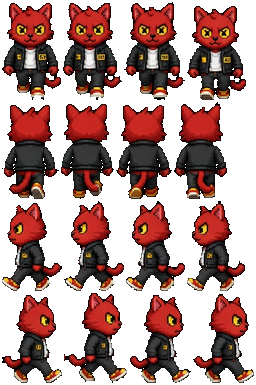
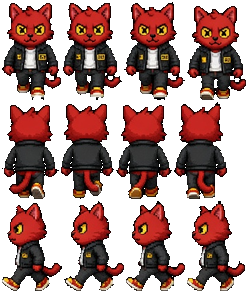
Caminar más fluido de Mist y mascota más pequeña
- Los lados usan la misma caminata (izquierda) reflejada para la
  derecha: la fila 'derecha' mezclaba dibujos distintos y saltaba.
- Cada cuadro se ancla en el centro de la cabeza: el gato ya no se
  mueve de lado a lado al cambiar de cuadro.
- Pasos un poco más rápidos, rebote suave en cada pisada y leve
  balanceo al ir de lado.
- Al caminar en diagonal la vista no cambia a cada rato entre lado y
  frente/espalda.
- Mascota más pequeña (40 en vez de 50).
- Versión 1.4.2.

Claude-Session: https://claude.ai/code/session_012giJR8jrsmCsJ3cu1HsXxX

diff --git a/js/game.js b/js/game.js
@@ -2636,7 +2636,13 @@ function dibujarJugador(t){
   if (pose === 'oculto') return;
   // hacia dónde mira: al caminar, según el movimiento; al atacar, según donde apunta
   const dirDe = (vx, vy) => Math.abs(vy) > Math.abs(vx) * 1.15 ? (vy < 0 ? 'ar' : 'ab') : 'lado';
-  if (mov) { P.dirV = dirDe(P.mx, P.my); }
+  // en diagonal no cambia de vista a cada rato: hace falta un giro claro para pasar de lado a frente/espalda o al revés
+  if (mov){
+    const ax = Math.abs(P.mx), ay = Math.abs(P.my);
+    if (P.dirV === 'lado') { if (ay > ax * 1.5) P.dirV = P.my < 0 ? 'ar' : 'ab'; }
+    else if (ax > ay * .9) P.dirV = 'lado';
+    else P.dirV = P.my < 0 ? 'ar' : 'ab';
+  }
   let dir = P.dirV || 'ab', derecha = !P.mira;
   let f = 0, kx = 1, ky = 1, alza = 0, rot = 0;
   if (pose){
@@ -2646,8 +2652,12 @@ function dibujarJugador(t){
     else { alza = -12 * s; kx = 1 - .06 * s; ky = 1 + .1 * s; }
   } else if (mov){
     // los pasos avanzan según la distancia recorrida
-    f = Math.floor(P.paso / 16);
-    alza = -Math.abs(Math.sin(P.paso / 16 * Math.PI)) * 2.2;
+    // un cuadro cada 14 px; rebote suave en cada pisada y leve balanceo al ir de lado
+    const k = P.paso / 14;
+    f = Math.floor(k);
+    alza = -(1 - Math.cos(k * Math.PI * 2)) * 1.1;
+    if (dir === 'lado') rot = Math.sin(k * Math.PI) * .035;
+    ky = 1 + Math.cos(k * Math.PI * 2) * .015;
   } else {
     const r = Math.sin(t / 420); ky = 1 + .025 * r; kx = 1 - .012 * r;
   }
@@ -2934,15 +2944,15 @@ const TEXTURA_RANGO = [
 const GATOS_DIR = [{"muerto":[[0,0,128,65,63.5,65]],"q_ab":[[139,196,63,94,26.2,94],[204,196,62,94,26.2,94]],"ab":[[268,196,62,94,34.1,94],[332,196,64,94,36.1,94],[398,196,62,95,35.4,95],[462,196,63,94,35.1,94]],"q_ar":[[527,196,59,95,26.2,95],[588,196,59,95,26.2,95]],"ar":[[649,196,59,95,26.6,95],[710,196,59,95,26.8,95],[771,196,59,94,31.9,94],[832,196,59,95,31.9,95]],"q_lado":[[893,196,68,94,25.8,94],[963,196,68,94,25.9,94]],"lado":[[1033,196,69,95,25.7,95],[1104,196,69,95,26.3,95],[1175,196,69,95,25.9,95],[1246,196,70,95,26.7,95]],"q_de":[[1318,196,68,95,40.7,95],[0,294,62,95,19.8,95]],"de":[[64,294,70,95,42.4,95],[136,294,70,96,42.6,96],[208,294,69,95,42.1,95],[279,294,70,96,42.4,96]]},{"ab":[[130,0,76,96,32.0,96],[208,0,77,96,31.5,96],[287,0,77,96,31.5,96],[366,0,79,96,31.5,96]],"ar":[[447,0,86,96,48.5,96],[535,0,81,96,37.5,96],[618,0,75,96,35.0,96],[695,0,74,96,31.5,96],[771,0,73,96,32.0,96]],"lado":[[846,0,82,96,34.0,96],[930,0,82,96,32.0,96],[1014,0,84,96,33.0,96],[1100,0,85,96,36.5,96],[1187,0,80,96,35.5,96],[1269,0,80,96,35.0,96]],"de":[[0,98,86,96,49.5,96],[88,98,76,96,42.5,96],[166,98,87,96,50.0,96],[255,98,75,96,44.0,96],[332,98,77,96,43.5,96],[411,98,72,96,42.5,96]],"muerto":[[485,98,122,56,60.5,56]]},{"ab":[[609,98,95,96,36.5,96]],"ar":[[706,98,94,96,35.5,96]],"lado":[[802,98,92,96,32.5,96],[896,98,98,96,33.0,96],[996,98,93,96,34.0,96]]},{"ab":[[1091,98,73,96,30.5,96],[1166,98,72,96,28.0,96]],"ar":[[1240,98,70,96,28.0,96],[1312,98,66,96,36.5,96],[0,196,67,96,36.0,96]],"lado":[[69,196,68,96,25.0,96]]}];
 const GATOS = null;
 const GATOS_IMG = new Image();
-// Mist (Gato Carmesí) tiene su propia hoja: frente, espalda, izquierda y derecha, 4 cuadros cada una
+// Mist (Gato Carmesí) tiene su propia hoja: frente, espalda y lado (mirando a la izquierda; se refleja para la derecha), 4 cuadros cada una
 const MIST_IMG = new Image();
-GATOS_DIR[0] = Object.assign({"ab": [[2, 3, 59, 97, 29.5, 97], [63, 3, 59, 97, 29.5, 97], [124, 2, 61, 98, 30.5, 98], [187, 6, 59, 94, 29.5, 94]], "ar": [[2, 105, 57, 94, 28.5, 94], [61, 104, 53, 95, 26.5, 95], [116, 105, 56, 94, 28.0, 94], [174, 102, 53, 97, 26.5, 97]], "lado": [[2, 203, 60, 88, 25.2, 88], [64, 201, 60, 90, 25.2, 90], [126, 201, 59, 90, 24.8, 90], [187, 201, 58, 90, 24.4, 90]], "de": [[2, 295, 60, 88, 34.8, 88], [64, 293, 63, 90, 36.5, 90], [129, 295, 62, 88, 36.0, 88], [193, 294, 61, 89, 35.4, 89]]}, { img:MIST_IMG });
+GATOS_DIR[0] = Object.assign({"ab": [[2, 3, 59, 97, 28.3, 97], [63, 3, 59, 97, 26.6, 97], [124, 2, 61, 98, 28.6, 98], [187, 6, 59, 94, 28.0, 94]], "ar": [[2, 105, 57, 94, 27.6, 94], [61, 104, 53, 95, 25.2, 95], [116, 105, 56, 94, 27.2, 94], [174, 102, 53, 97, 26.2, 97]], "lado": [[2, 203, 60, 88, 25.0, 88], [64, 201, 60, 90, 26.5, 90], [126, 201, 59, 90, 25.1, 90], [187, 201, 58, 90, 24.3, 90]]}, { img:MIST_IMG });
 const imgGato = tipo => (GATOS_DIR[tipo] && GATOS_DIR[tipo].img) || GATOS_IMG;
 let gatosListo = false, gatosPend = 2;
 const gatoCargado = () => { if (--gatosPend === 0){ gatosListo = true; document.dispatchEvent(new Event('gatoslistos')); } };
 GATOS_IMG.onload = gatoCargado; MIST_IMG.onload = gatoCargado;
 GATOS_IMG.src = 'img/gatos.png';
-MIST_IMG.src = 'img/mist.png?v=1.4.1';
+MIST_IMG.src = 'img/mist.png?v=1.4.2';
 const TIPOS_GATO = ['Gato Carmesí', 'Gato Ejecutivo', 'Gato Calicó', 'Gato Misterioso'];
 // Mascotas: 4 ratas con 4 direcciones (ar arriba, ab abajo, iz izquierda, de derecha) de 4 cuadros
 // cada cuadro: [x, y, ancho, alto, anclaX, anclaY]
@@ -2952,7 +2962,7 @@ let ratasListo = false;
 RATAS_IMG.onload = () => ratasListo = true;
 RATAS_IMG.src = 'img/ratas.png';
 const TIPOS_RATA = ['Rata Mensajera', 'Rata Quesera', 'Rata Ejecutiva', 'Rata Misteriosa'];
-const ALTO_GATO = 50; // altura de la mascota en el mundo
+const ALTO_GATO = 40; // altura de la mascota en el mundo
 let M = null, gatoElegido = 0;
 
 function toggleMascota(){

diff --git a/index.html b/index.html
@@ -14,7 +14,7 @@
 <title>Riftborn: El Ascenso del Eclipse</title>
 <link rel="preconnect" href="https://fonts.googleapis.com">
 <link href="https://fonts.googleapis.com/css2?family=Marcellus&family=Rajdhani:wght@500;600;700&display=swap" rel="stylesheet">
-<link rel="stylesheet" href="css/style.css?v=1.4.1">
+<link rel="stylesheet" href="css/style.css?v=1.4.2">
 </head>
 <body>
 <canvas id="c"></canvas>
@@ -79,7 +79,7 @@
   <div class="wl-izq">
     <button class="wbtn" id="tabReg" type="button">Crear cuenta</button>
     <button class="wbtn" id="tabEntrar" type="button">Ya tengo cuenta</button>
-    <small class="wl-version">Versión 1.4.1 (Eclipse)<br>Tu cuenta se guarda en este navegador</small>
+    <small class="wl-version">Versión 1.4.2 (Eclipse)<br>Tu cuenta se guarda en este navegador</small>
   </div>
   <div class="wl-der">
     <button class="wbtn" type="button" data-ir="pAyuda">Cómo jugar</button>
@@ -263,7 +263,7 @@
   <button class="btn principal" id="btnRevivir">Despertar en la posada</button>
 </div>
 
-<script src="auth/auth.js?v=1.4.1"></script>
-<script src="js/game.js?v=1.4.1"></script>
+<script src="auth/auth.js?v=1.4.2"></script>
+<script src="js/game.js?v=1.4.2"></script>
 </body>
 </html>
